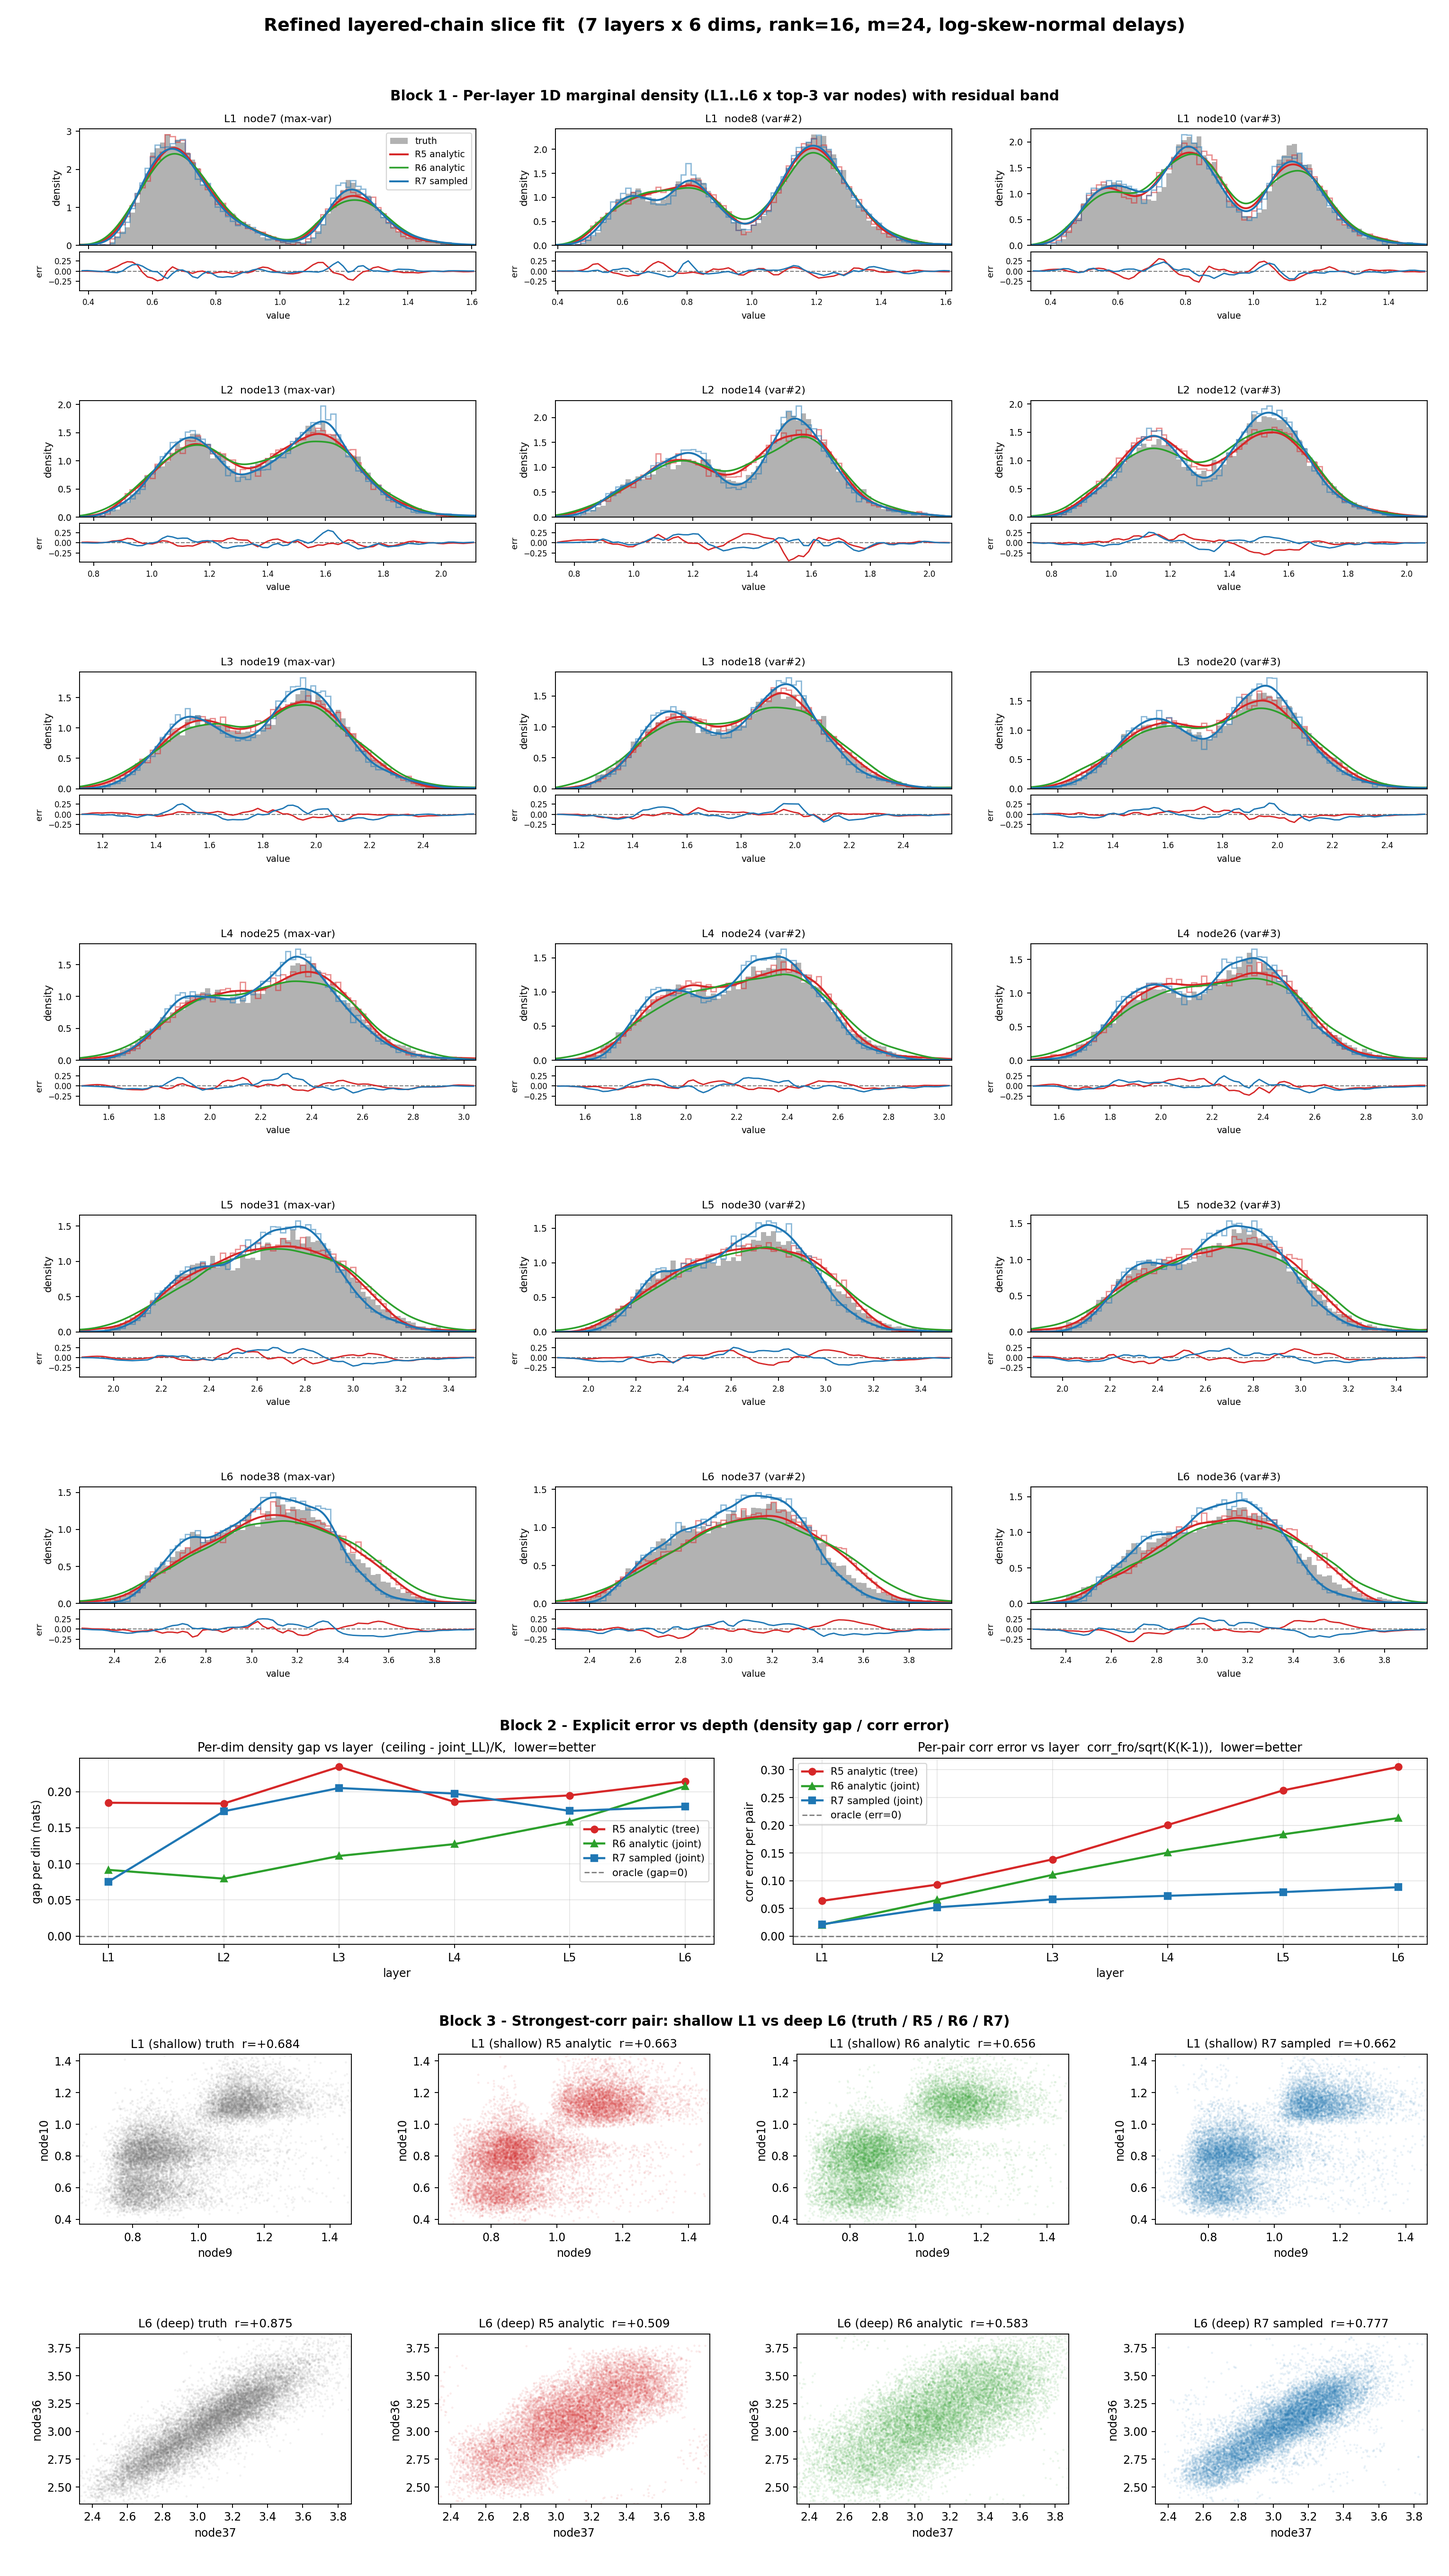
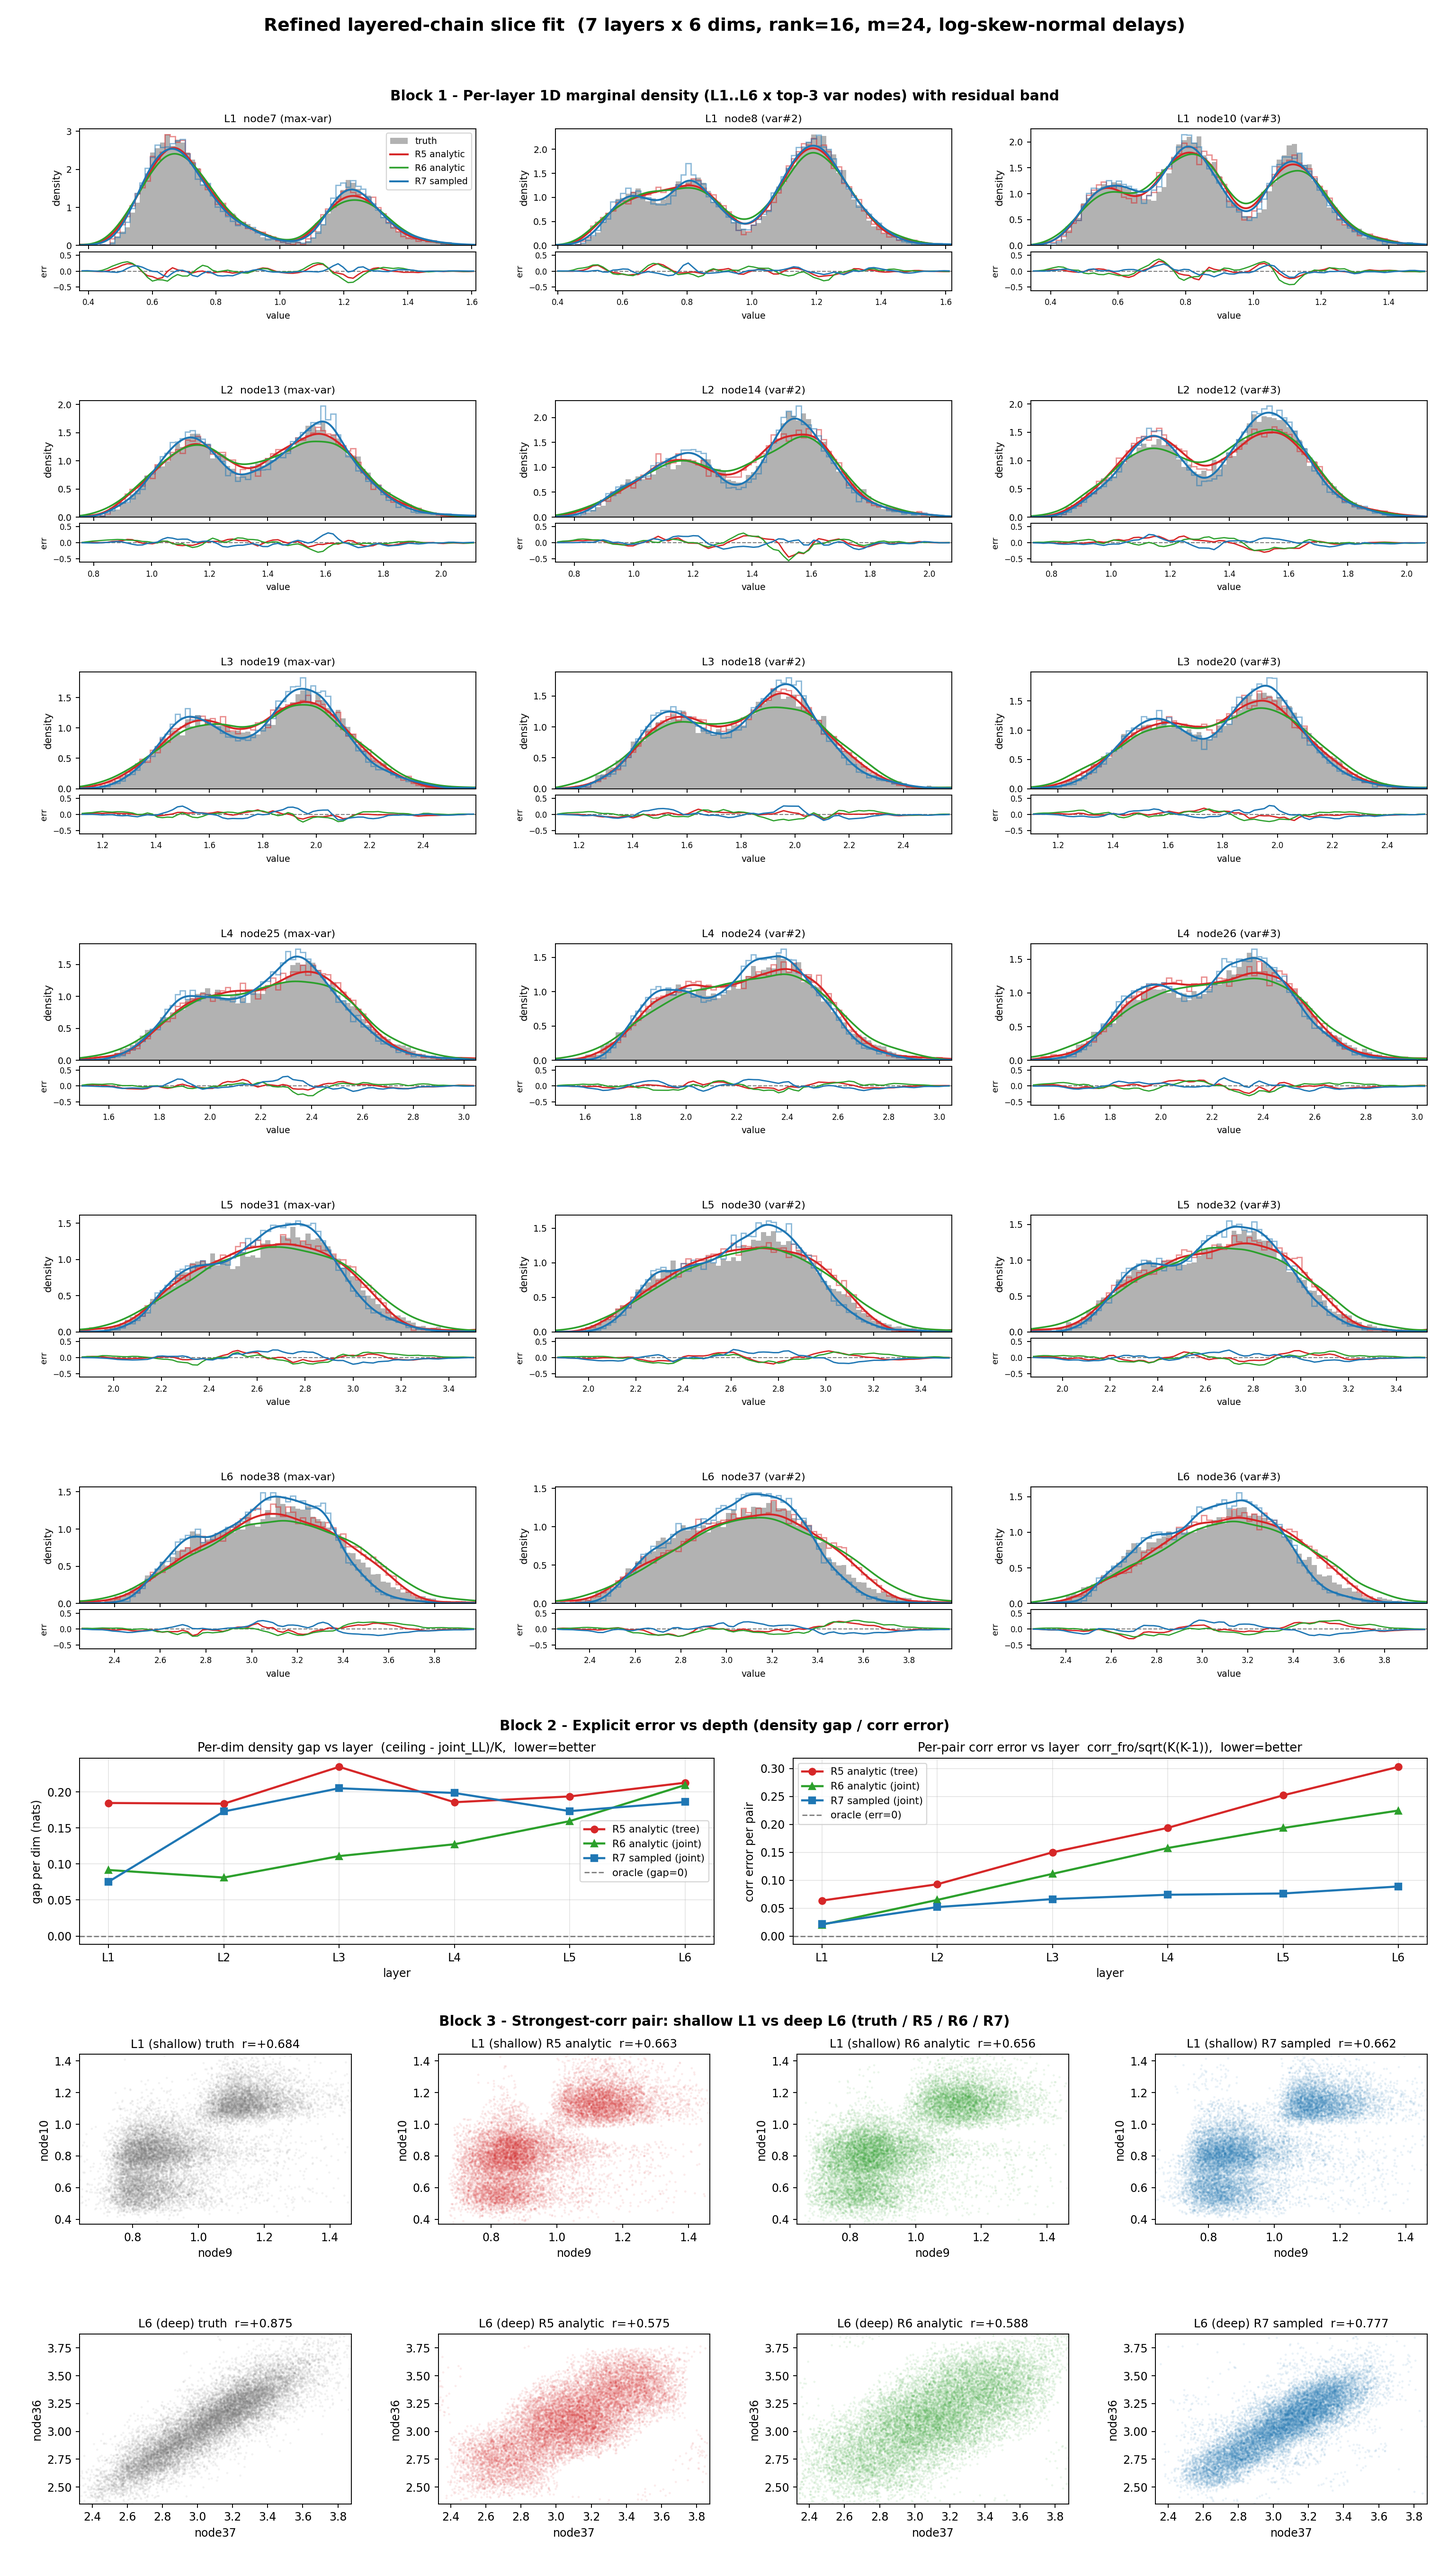
fix(slice): Block1 残差带补上 R6 绿线(之前漏画), 三色齐全
之前 R6 只画在主密度KDE/Block2曲线/Block3散点, 残差带(err)漏了R6。
现补上 res6=R6密度-truth 绿线, 每格 err 三色(R5红/R6绿/R7蓝)一致。

diff --git a/simple_ttns_l2/experiments/plot_slice_refined.py b/simple_ttns_l2/experiments/plot_slice_refined.py
@@ -186,13 +186,19 @@ def main():
             res5 = _smooth(r5_d - t_d); res7 = _smooth(r7_d - t_d)
             ax_res.axhline(0, ls="--", color="gray", lw=0.9)
             ax_res.plot(centers, res5, color=C_R5, lw=1.2)
+            res_stack = [res5, res7]
+            if r6 is not None:
+                r6_d, _ = np.histogram(r6, bins=bins, density=True)
+                res6 = _smooth(r6_d - t_d)
+                ax_res.plot(centers, res6, color=C_R6, lw=1.1)
+                res_stack.append(res6)
             ax_res.plot(centers, res7, color=C_R7, lw=1.2)
             ax_res.set_xlim(lo - pad, hi + pad)
             ax_res.set_xlabel("value", fontsize=8); ax_res.set_ylabel("err", fontsize=7.5)
             ax_res.tick_params(labelsize=7)
             res_axes.append(ax_res)
             res_absmax = max(res_absmax,
-                             float(np.max(np.abs(np.concatenate([res5, res7])))))
+                             float(np.max(np.abs(np.concatenate(res_stack)))))
 
     # 所有残差带统一对称 ylim,便于跨节点/跨深度直接比较误差幅度。
     res_ylim = 1.08 * (res_absmax + 1e-9)
